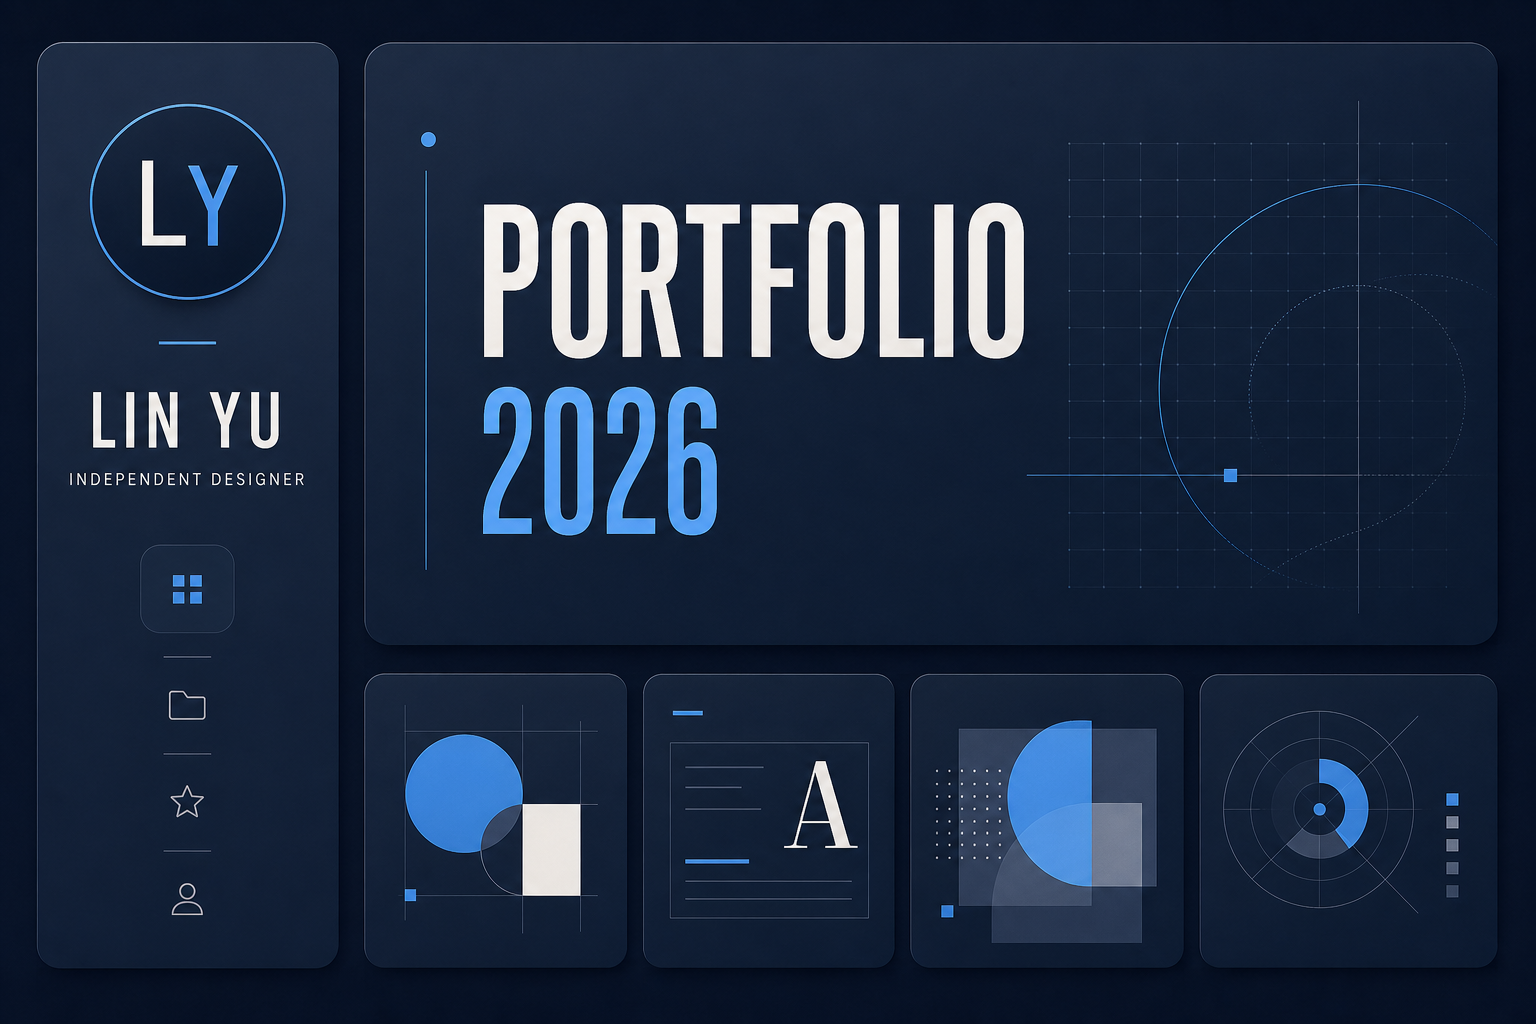
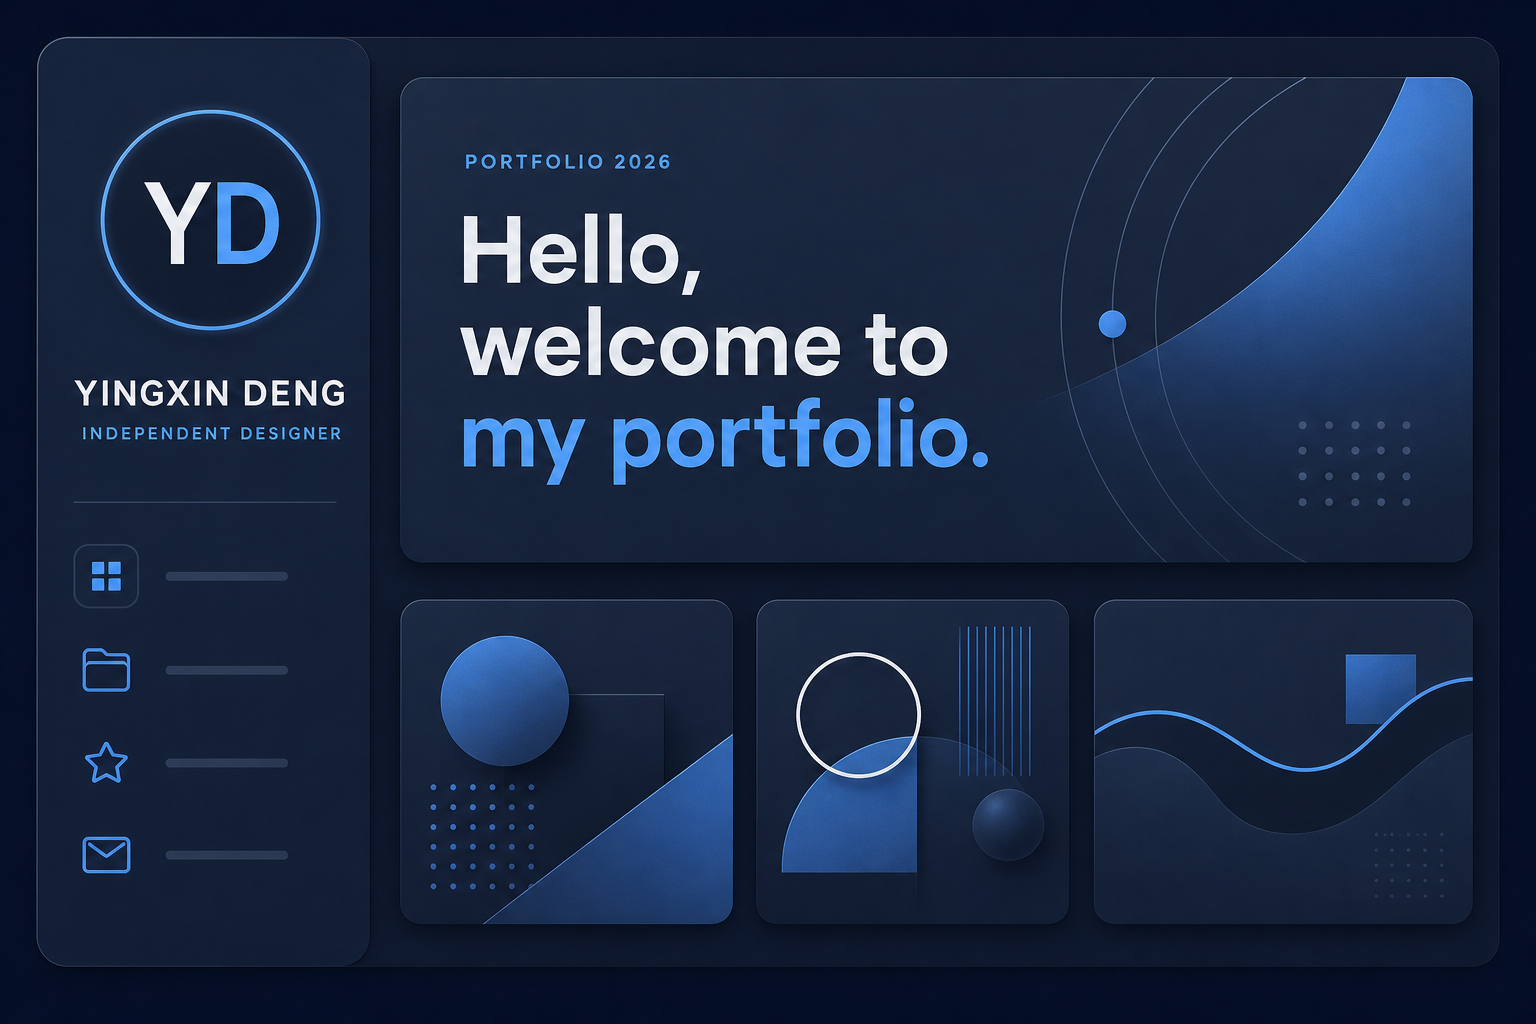
Rename portfolio to Yingxin Deng

diff --git a/app/page.tsx b/app/page.tsx
@@ -13,22 +13,22 @@ function ProjectArt({ kind }: { kind: string }) {
 export default function Home() {
   return <main className="site-shell">
     <aside className="sidebar">
-      <a href="#top" className="avatar" aria-label="Lin Yu, back to top"><span>LY</span><i /></a>
-      <h1>Lin Yu</h1>
+      <a href="#top" className="avatar" aria-label="Yingxin Deng, back to top"><span>YD</span><i /></a>
+      <h1>Yingxin Deng</h1>
       <p className="role">Independent Designer<br />&amp; Creative Developer</p>
       <nav aria-label="Main navigation"><a href="#about">About</a><a href="#work">Projects</a><a href="#contact">Contact</a></nav>
-      <section className="side-about" id="about"><h2>About</h2><p>Hi, I’m Lin. I design digital products and expressive web experiences where curiosity meets craft.</p></section>
+      <section className="side-about" id="about"><h2>About</h2><p>Hi, I’m Yingxin. I design digital products and expressive web experiences where curiosity meets craft.</p></section>
       <section className="side-contact" id="contact"><h2>Contact</h2><div><a href="mailto:hello@example.com">Email</a><a href="#">LinkedIn</a><a href="#">Instagram</a></div></section>
     </aside>
 
     <section className="content" id="top">
       <header className="intro-card">
-        <div className="intro-copy"><p className="eyebrow">PORTFOLIO · 2026</p><h2>Hey, I&apos;m Lin.</h2><p>Welcome to my corner of the internet. I enjoy shaping thoughtful, useful, and memorable digital experiences.</p><a href="#work">Explore projects <span>↓</span></a></div>
+        <div className="intro-copy"><p className="eyebrow">PORTFOLIO · 2026</p><h2>Hey, I&apos;m Yingxin.</h2><p>Welcome to my corner of the internet. I enjoy shaping thoughtful, useful, and memorable digital experiences.</p><a href="#work">Explore projects <span>↓</span></a></div>
         <div className="now-card"><p>Currently</p><strong>Designing<br /><em>what&apos;s next.</em></strong><div className="now-grid"><span><b>06</b> years making</span><span><b>24</b> projects launched</span></div><a href="mailto:hello@example.com">Start a conversation ↗</a></div>
       </header>
 
       <section className="projects" id="work"><div className="section-title"><h2>Projects</h2><p>Selected work, 2024–2026</p></div><div className="project-grid">{projects.map((project) => <article className="project-card" key={project.title}><ProjectArt kind={project.art} /><div className="project-info"><p className="project-date">{project.date} · {project.type}</p><h3>{project.title}</h3><p>{project.copy}</p><a href={`mailto:hello@example.com?subject=Project inquiry: ${project.title}`}>View project <span>↗</span></a></div></article>)}</div></section>
-      <footer>© 2026 Lin Yu <span>Designed with curiosity.</span></footer>
+      <footer>© 2026 Yingxin Deng <span>Designed with curiosity.</span></footer>
     </section>
   </main>;
 }

diff --git a/app/layout.tsx b/app/layout.tsx
@@ -3,11 +3,11 @@ import "./globals.css";
 
 export const metadata: Metadata = {
   metadataBase: new URL("https://sammydyx.github.io"),
-  title: "Lin Yu — Independent Designer & Creative Developer",
-  description: "Lin Yu’s portfolio for digital products, brand experiences, and creative development.",
+  title: "Yingxin Deng — Independent Designer & Creative Developer",
+  description: "Yingxin Deng’s portfolio for digital products, brand experiences, and creative development.",
   icons: { icon: "/favicon.svg", shortcut: "/favicon.svg" },
-  openGraph: { title: "Lin Yu / Independent Designer", description: "Digital product designer and creative developer.", images: ["/og.png"] },
-  twitter: { card: "summary_large_image", title: "Lin Yu / Independent Designer", description: "Digital product designer and creative developer.", images: ["/og.png"] },
+  openGraph: { title: "Yingxin Deng / Independent Designer", description: "Digital product designer and creative developer.", images: ["/og.png"] },
+  twitter: { card: "summary_large_image", title: "Yingxin Deng / Independent Designer", description: "Digital product designer and creative developer.", images: ["/og.png"] },
 };
 
 export default function RootLayout({ children }: Readonly<{ children: React.ReactNode }>) {
